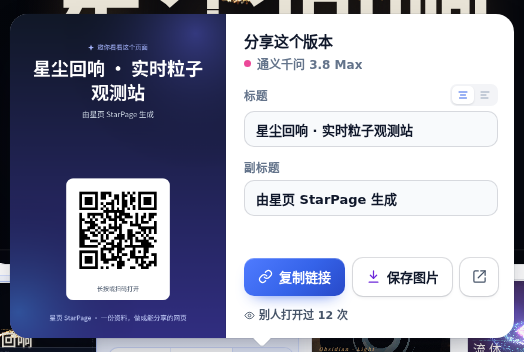
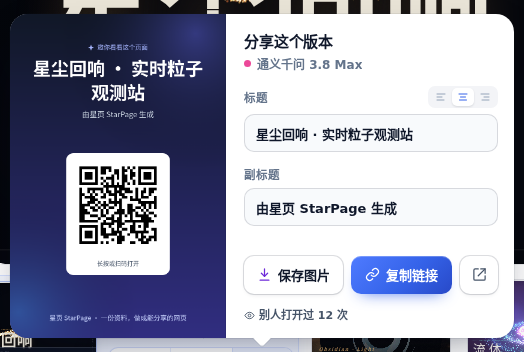
ux: C1 模型名默认左对齐并在数据表上方竖向居中；分享图支持左中右对齐、二维码上移、保存图片挪到最左

diff --git a/code/frontend/app/components/workspace/actions.tsx b/code/frontend/app/components/workspace/actions.tsx
@@ -571,18 +571,18 @@ function SharePopover({
                     </button>
                   )}
                   <span className="share-pop-align" role="radiogroup" aria-label="分享图文字对齐">
-                    {(["center", "left"] as const).map((value) => (
+                    {ALIGN_OPTIONS.map((option) => (
                       <button
-                        key={value}
+                        key={option.value}
                         type="button"
                         role="radio"
-                        aria-checked={meta.align === value}
-                        className={meta.align === value ? "is-on" : ""}
-                        onClick={() => meta.update({ align: value })}
-                        data-tip={value === "center" ? "居中" : "左对齐"}
-                        aria-label={value === "center" ? "居中" : "左对齐"}
+                        aria-checked={meta.align === option.value}
+                        className={meta.align === option.value ? "is-on" : ""}
+                        onClick={() => meta.update({ align: option.value })}
+                        data-tip={option.label}
+                        aria-label={option.label}
                       >
-                        {value === "center" ? <AlignCenterIcon /> : <AlignLeftIcon />}
+                        <option.Icon />
                       </button>
                     ))}
                   </span>
@@ -615,6 +615,10 @@ function SharePopover({
             </label>
 
             <div className="share-pop-actions">
+              <button type="button" className="share-pop-save" onClick={() => downloadDataUrl(posterSrc, "星页分享图.png")} disabled={!posterSrc}>
+                <DownloadIcon />
+                保存图片
+              </button>
               <button
                 type="button"
                 className={`share-pop-copy ${copied ? "is-copied" : ""}`}
@@ -624,10 +628,6 @@ function SharePopover({
               >
                 {copied ? <CheckIcon /> : <LinkIcon />}
                 {copied ? "已复制链接" : data ? "复制链接" : "生成链接中…"}
-              </button>
-              <button type="button" className="share-pop-save" onClick={() => downloadDataUrl(posterSrc, "星页分享图.png")} disabled={!posterSrc}>
-                <DownloadIcon />
-                保存图片
               </button>
               <a
                 className={`share-pop-open ${data ? "" : "is-disabled"}`}
@@ -751,17 +751,30 @@ const DownloadIcon = () => (
   </svg>
 );
 
+const AlignLeftIcon = () => (
+  <svg {...svgProps}>
+    <path d="M4 6h16M4 12h10M4 18h14" />
+  </svg>
+);
+
 const AlignCenterIcon = () => (
   <svg {...svgProps}>
     <path d="M4 6h16M7 12h10M5 18h14" />
   </svg>
 );
 
-const AlignLeftIcon = () => (
+const AlignRightIcon = () => (
   <svg {...svgProps}>
-    <path d="M4 6h16M4 12h10M4 18h14" />
+    <path d="M4 6h16M10 12h10M6 18h14" />
   </svg>
 );
+
+/** 分享图文字对齐：按钮顺序就是方向本身，左对齐在左、居中在中、右对齐在右。 */
+const ALIGN_OPTIONS: { value: PosterAlign; label: string; Icon: () => ReactNode }[] = [
+  { value: "left", label: "左对齐", Icon: AlignLeftIcon },
+  { value: "center", label: "居中", Icon: AlignCenterIcon },
+  { value: "right", label: "右对齐", Icon: AlignRightIcon },
+];
 
 const EyeIcon = () => (
   <svg {...svgProps}>

diff --git a/code/frontend/app/components/workspace/share-poster.ts b/code/frontend/app/components/workspace/share-poster.ts
@@ -65,7 +65,7 @@ function star(ctx: CanvasRenderingContext2D, cx: number, cy: number, r: number) 
   ctx.fill();
 }
 
-export type PosterAlign = "center" | "left";
+export type PosterAlign = "left" | "center" | "right";
 
 export function renderPoster({
   title,
@@ -93,16 +93,16 @@ export function renderPoster({
   glow(ctx, WIDTH * 0.04, HEIGHT * 0.92, 400, "rgba(56, 189, 248, 0.26)");
 
   ctx.textBaseline = "top";
-  const centered = align === "center";
-  const textX = centered ? WIDTH / 2 : MARGIN;
+  const textX = align === "center" ? WIDTH / 2 : align === "right" ? WIDTH - MARGIN : MARGIN;
   const tag = "邀你看看这个页面";
   ctx.fillStyle = "#a5b4fc";
   ctx.font = `500 21px ${FONT}`;
-  const tagStart = centered ? (WIDTH - (ctx.measureText(tag).width + 30)) / 2 : MARGIN;
+  const tagWidth = ctx.measureText(tag).width + 30;
+  const tagStart = align === "center" ? (WIDTH - tagWidth) / 2 : align === "right" ? WIDTH - MARGIN - tagWidth : MARGIN;
   star(ctx, tagStart + 9, 112, 10);
   ctx.fillText(tag, tagStart + 30, 100);
 
-  ctx.textAlign = centered ? "center" : "left";
+  ctx.textAlign = align;
   let y = 152;
   ctx.fillStyle = "#ffffff";
   ctx.font = `600 60px ${FONT}`;
@@ -118,12 +118,15 @@ export function renderPoster({
     y += 38;
   }
 
+  // 二维码卡放在文字下沿与底部落款之间的正中，标题一到三行都不会上空下挤。
   const card = 346;
+  const cardHeight = card + 60;
+  const brandTop = HEIGHT - 78;
   const cardX = (WIDTH - card) / 2;
-  const cardY = Math.max(y + 56, 548);
+  const cardY = Math.round(y + Math.max(44, (brandTop - 28 - y - cardHeight) / 2));
   ctx.fillStyle = "#ffffff";
   ctx.beginPath();
-  ctx.roundRect(cardX, cardY, card, card + 60, 24);
+  ctx.roundRect(cardX, cardY, card, cardHeight, 24);
   ctx.fill();
   ctx.imageSmoothingEnabled = false;
   ctx.drawImage(qr, cardX + 26, cardY + 26, card - 52, card - 52);
@@ -135,7 +138,7 @@ export function renderPoster({
 
   ctx.fillStyle = "#c7d2fe";
   ctx.font = `400 22px ${FONT}`;
-  ctx.fillText("星页 StarPage · 一份资料，做成能分享的网页", WIDTH / 2, HEIGHT - 78);
+  ctx.fillText("星页 StarPage · 一份资料，做成能分享的网页", WIDTH / 2, brandTop);
 
   return canvas.toDataURL("image/png");
 }

diff --git a/code/frontend/app/components/workspace/actions.css b/code/frontend/app/components/workspace/actions.css
@@ -339,11 +339,13 @@ a.tb-address:hover .tb-address-open span {
   padding: 6px;
 }
 
-/* 名字压齐缩略图顶边、按钮压齐缩略图底边，用量行在两者正中 */
+/*
+ * 用量行和按钮按列对齐，合成一张「小表」压在底部（与缩略图底边齐）；
+ * 名字是这张表的标题，在表上方剩下的空间里竖向居中，不贴着卡片上沿。
+ */
 .tb-focus-info {
   display: flex;
   flex-direction: column;
-  justify-content: space-between;
   width: var(--info-w, 184px);
   min-width: 0;
 }
@@ -352,14 +354,13 @@ a.tb-address:hover .tb-address-open span {
   display: contents;
 }
 
-/* 行高 18px 里字形上沿约低 2px，上提 2px 让字的顶边压齐缩略图顶边 */
 .tb-focus-head {
   display: flex;
+  flex: 1;
   align-items: center;
   gap: 6px;
   min-width: 0;
-  height: 18px;
-  margin-top: -2px;
+  min-height: 18px;
 }
 
 .tb-focus-dot {
@@ -389,6 +390,7 @@ a.tb-address:hover .tb-address-open span {
 
 .tb-focus-meta {
   display: flex;
+  flex-shrink: 0;
   align-items: center;
   gap: 10px;
   min-width: 0;
@@ -437,7 +439,7 @@ a.tb-address:hover .tb-address-open span {
 }
 
 .tb-focus-hint {
-  margin: 0;
+  margin: 9px 0 0;
   color: var(--color-text-tertiary);
   font-size: 11.5px;
   line-height: 1.45;
@@ -522,8 +524,10 @@ a.tb-address:hover .tb-address-open span {
 
 .tb-card-actions {
   display: grid;
+  flex-shrink: 0;
   grid-template-columns: repeat(3, minmax(0, 1fr));
   height: 32px;
+  margin-top: 9px;
   overflow: hidden;
   border-radius: 9px;
   background: #fff;
@@ -583,8 +587,10 @@ a.tb-address:hover .tb-address-open span {
 /* 「继续改」位置二：按钮行里的主按钮，左边三个图标按钮 */
 .tb-row-actions {
   display: flex;
+  flex-shrink: 0;
   gap: 6px;
   height: 32px;
+  margin-top: 9px;
 }
 
 .tb-row-tools {

diff --git a/code/frontend/app/components/workspace/variant.tsx b/code/frontend/app/components/workspace/variant.tsx
@@ -54,9 +54,9 @@ export const NAME_ALIGNS: { id: NameAlign; name: string }[] = [
 ];
 
 export function readNameAlign(): NameAlign {
-  if (typeof window === "undefined") return "center";
+  if (typeof window === "undefined") return "left";
   const raw = new URLSearchParams(window.location.search).get("name");
-  return raw === "left" ? "left" : "center";
+  return raw === "center" ? "center" : "left";
 }
 
 function withParam(search: string, key: string, value: string): string {
